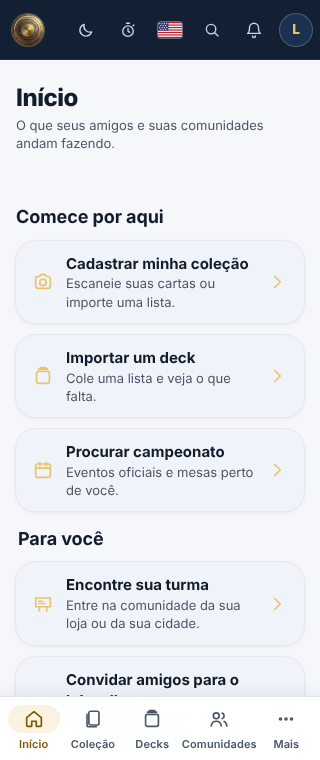
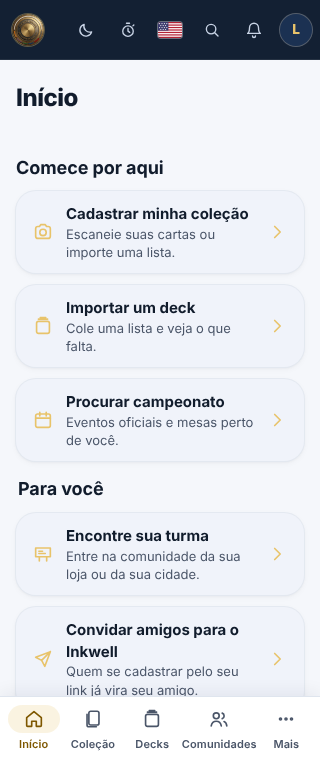
fix(início): Continuar avisa quando decks e coleção não carregam
Pedido na revisão do #235: se a leitura da coleção falhar, o bloco não pode sumir.
Agora mostra "Não deu para carregar seus decks e sua coleção." com Tentar de novo,
que pede só essa parte de novo. Botões de Tentar de novo com 44 px de altura.
No celular, com o bloco visível, o subtítulo do Início ("o que seus amigos andam
fazendo") some, porque deixou de descrever o topo da tela. Desktop sem mudança.

Teste novo em tools/home.spec.mjs (8 casos); capturas refeitas.

Claude-Session: https://claude.ai/code/session_01FVbTkUiCCiwGnRgKq7JAgu

diff --git a/site/feed/index.html b/site/feed/index.html
@@ -323,12 +323,13 @@ button.fy-tile { border: 0; font: inherit; text-align: left; width: 100%; cursor
 }
 @media (max-width: 760px) { .page.split.home3 > #left, .page.split.home3 > #aside { display: none; } .page.split.home3 { grid-template-columns: minmax(0, 1fr); grid-template-rows: auto; grid-template-areas: "head" "main"; } }
 #keep { display: none; }
-@media (max-width: 760px) { #keep:not(:empty) { display: block; margin-bottom: var(--sp-4); } }
+@media (max-width: 760px) { #keep:not(:empty) { display: block; margin-bottom: var(--sp-4); } .home3:has(#keep:not(:empty)) .page-head p { display: none; } }   /* "o que seus amigos andam fazendo" no longer describes the top of the phone screen */
 #keep h2 { margin: 0 0 var(--sp-3); font-size: var(--fs-h2); }
 #keep .fy-row { grid-template-columns: minmax(0, 1fr); }
 #keep .fy-tile { min-height: 56px; }
 #keep .fy-tile b { overflow-wrap: anywhere; }
 .home-retry { display: flex; flex-wrap: wrap; align-items: center; gap: var(--sp-3); }
+.home-retry .btn { min-height: 44px; }   /* easy to hit with a thumb */
 body.out .page.split.home3 { display: block; }
 .home-left { display: grid; gap: var(--sp-3); align-content: start; }
 .me-card { padding: var(--sp-4); border-radius: var(--r-lg); background: var(--surface-1); border: 1px solid var(--line); box-shadow: var(--e1); display: grid; gap: var(--sp-3); }
@@ -710,7 +711,7 @@ const CARD_INDEX = {"generated_at":"2026-10-19T12:50:22Z","sets":[{"code":"D100"
     "Add my collection": "Cadastrar minha coleção", "Scan your cards or import a list.": "Escaneie suas cartas ou importe uma lista.",
     "Import a deck": "Importar um deck", "Paste a list and see what you're missing.": "Cole uma lista e veja o que falta.",
     "Find a tournament": "Procurar campeonato", "Official events and tables near you.": "Eventos oficiais e mesas perto de você.",
-    "Couldn't load this part of your home.": "Não deu para carregar esta parte do seu Início.",
+    "Couldn't load this part of your home.": "Não deu para carregar esta parte do seu Início.", "Couldn't load your decks and collection.": "Não deu para carregar seus decks e sua coleção.",
     "See my profile": "Ver meu perfil", "Shortcuts": "Atalhos", "Deck builder": "Construtor de decks", "Scan cards": "Escanear cartas", "Lore counter": "Contador de lore",
     "Trades and loans ": "Trocas e empréstimos", "Prices and wishlist": "Preços e lista de desejos", "Games and stats": "Jogos e estatísticas",
     "A kind, safe space": "Espaço gentil e seguro", "Communities and recados are for members 18+. Be kind at the table and online; report what isn't.": "Comunidades e recados são para membros 18+. Gentileza na mesa e aqui; denuncie o que não for.",
@@ -1322,7 +1323,11 @@ const CARD_INDEX = {"generated_at":"2026-10-19T12:50:22Z","sets":[{"code":"D100"
   async function renderKeep() {
     const el = $("keep"); if (!el || !me) return;
     const [cols, marks] = await Promise.all([myCols(), rpcS("my_event_marks").catch(() => [])]);
-    if (colsFailed) { el.innerHTML = ""; return; }   // the notice under "For you" offers "Try again"
+    if (colsFailed) {   // say so and offer to ask again: the block must not just vanish
+      el.innerHTML = `<section aria-labelledby="hKeep"><h2 id="hKeep">${Tx("Continue")}</h2><div class="panel home-retry" role="alert" data-testid="keep-error"><span>${Tx("Couldn't load your decks and collection.")}</span><button type="button" class="btn small" id="keepRetry">${Tx("Try again")}</button></div></section>`;
+      $("keepRetry").onclick = (e) => { e.currentTarget.disabled = true; colsP = null; colsFailed = false; renderKeep(); };
+      return;
+    }
     const col = (cols || []).find((c) => c.profile === "principal") || (cols || [])[0] || {};
     let cards = 0; for (const v of Object.values(col.collection || {})) cards += (+v?.n || 0) + (+v?.f || 0);
     const decks = (cols || []).flatMap((c) => (Array.isArray(c.decks) ? c.decks : [])).filter((d) => d?.id && d.cards && Object.keys(d.cards).length);

diff --git a/src/site/feed/feed.template.html b/src/site/feed/feed.template.html
@@ -68,12 +68,13 @@ button.fy-tile { border: 0; font: inherit; text-align: left; width: 100%; cursor
 }
 @media (max-width: 760px) { .page.split.home3 > #left, .page.split.home3 > #aside { display: none; } .page.split.home3 { grid-template-columns: minmax(0, 1fr); grid-template-rows: auto; grid-template-areas: "head" "main"; } }
 #keep { display: none; }
-@media (max-width: 760px) { #keep:not(:empty) { display: block; margin-bottom: var(--sp-4); } }
+@media (max-width: 760px) { #keep:not(:empty) { display: block; margin-bottom: var(--sp-4); } .home3:has(#keep:not(:empty)) .page-head p { display: none; } }   /* "o que seus amigos andam fazendo" no longer describes the top of the phone screen */
 #keep h2 { margin: 0 0 var(--sp-3); font-size: var(--fs-h2); }
 #keep .fy-row { grid-template-columns: minmax(0, 1fr); }
 #keep .fy-tile { min-height: 56px; }
 #keep .fy-tile b { overflow-wrap: anywhere; }
 .home-retry { display: flex; flex-wrap: wrap; align-items: center; gap: var(--sp-3); }
+.home-retry .btn { min-height: 44px; }   /* easy to hit with a thumb */
 body.out .page.split.home3 { display: block; }
 .home-left { display: grid; gap: var(--sp-3); align-content: start; }
 .me-card { padding: var(--sp-4); border-radius: var(--r-lg); background: var(--surface-1); border: 1px solid var(--line); box-shadow: var(--e1); display: grid; gap: var(--sp-3); }
@@ -296,7 +297,7 @@ const CARD_INDEX = /*@CARD_INDEX@*/;
     "Add my collection": "Cadastrar minha coleção", "Scan your cards or import a list.": "Escaneie suas cartas ou importe uma lista.",
     "Import a deck": "Importar um deck", "Paste a list and see what you're missing.": "Cole uma lista e veja o que falta.",
     "Find a tournament": "Procurar campeonato", "Official events and tables near you.": "Eventos oficiais e mesas perto de você.",
-    "Couldn't load this part of your home.": "Não deu para carregar esta parte do seu Início.",
+    "Couldn't load this part of your home.": "Não deu para carregar esta parte do seu Início.", "Couldn't load your decks and collection.": "Não deu para carregar seus decks e sua coleção.",
     "See my profile": "Ver meu perfil", "Shortcuts": "Atalhos", "Deck builder": "Construtor de decks", "Scan cards": "Escanear cartas", "Lore counter": "Contador de lore",
     "Trades and loans ": "Trocas e empréstimos", "Prices and wishlist": "Preços e lista de desejos", "Games and stats": "Jogos e estatísticas",
     "A kind, safe space": "Espaço gentil e seguro", "Communities and recados are for members 18+. Be kind at the table and online; report what isn't.": "Comunidades e recados são para membros 18+. Gentileza na mesa e aqui; denuncie o que não for.",
@@ -908,7 +909,11 @@ const CARD_INDEX = /*@CARD_INDEX@*/;
   async function renderKeep() {
     const el = $("keep"); if (!el || !me) return;
     const [cols, marks] = await Promise.all([myCols(), rpcS("my_event_marks").catch(() => [])]);
-    if (colsFailed) { el.innerHTML = ""; return; }   // the notice under "For you" offers "Try again"
+    if (colsFailed) {   // say so and offer to ask again: the block must not just vanish
+      el.innerHTML = `<section aria-labelledby="hKeep"><h2 id="hKeep">${Tx("Continue")}</h2><div class="panel home-retry" role="alert" data-testid="keep-error"><span>${Tx("Couldn't load your decks and collection.")}</span><button type="button" class="btn small" id="keepRetry">${Tx("Try again")}</button></div></section>`;
+      $("keepRetry").onclick = (e) => { e.currentTarget.disabled = true; colsP = null; colsFailed = false; renderKeep(); };
+      return;
+    }
     const col = (cols || []).find((c) => c.profile === "principal") || (cols || [])[0] || {};
     let cards = 0; for (const v of Object.values(col.collection || {})) cards += (+v?.n || 0) + (+v?.f || 0);
     const decks = (cols || []).flatMap((c) => (Array.isArray(c.decks) ? c.decks : [])).filter((d) => d?.id && d.cards && Object.keys(d.cards).length);
